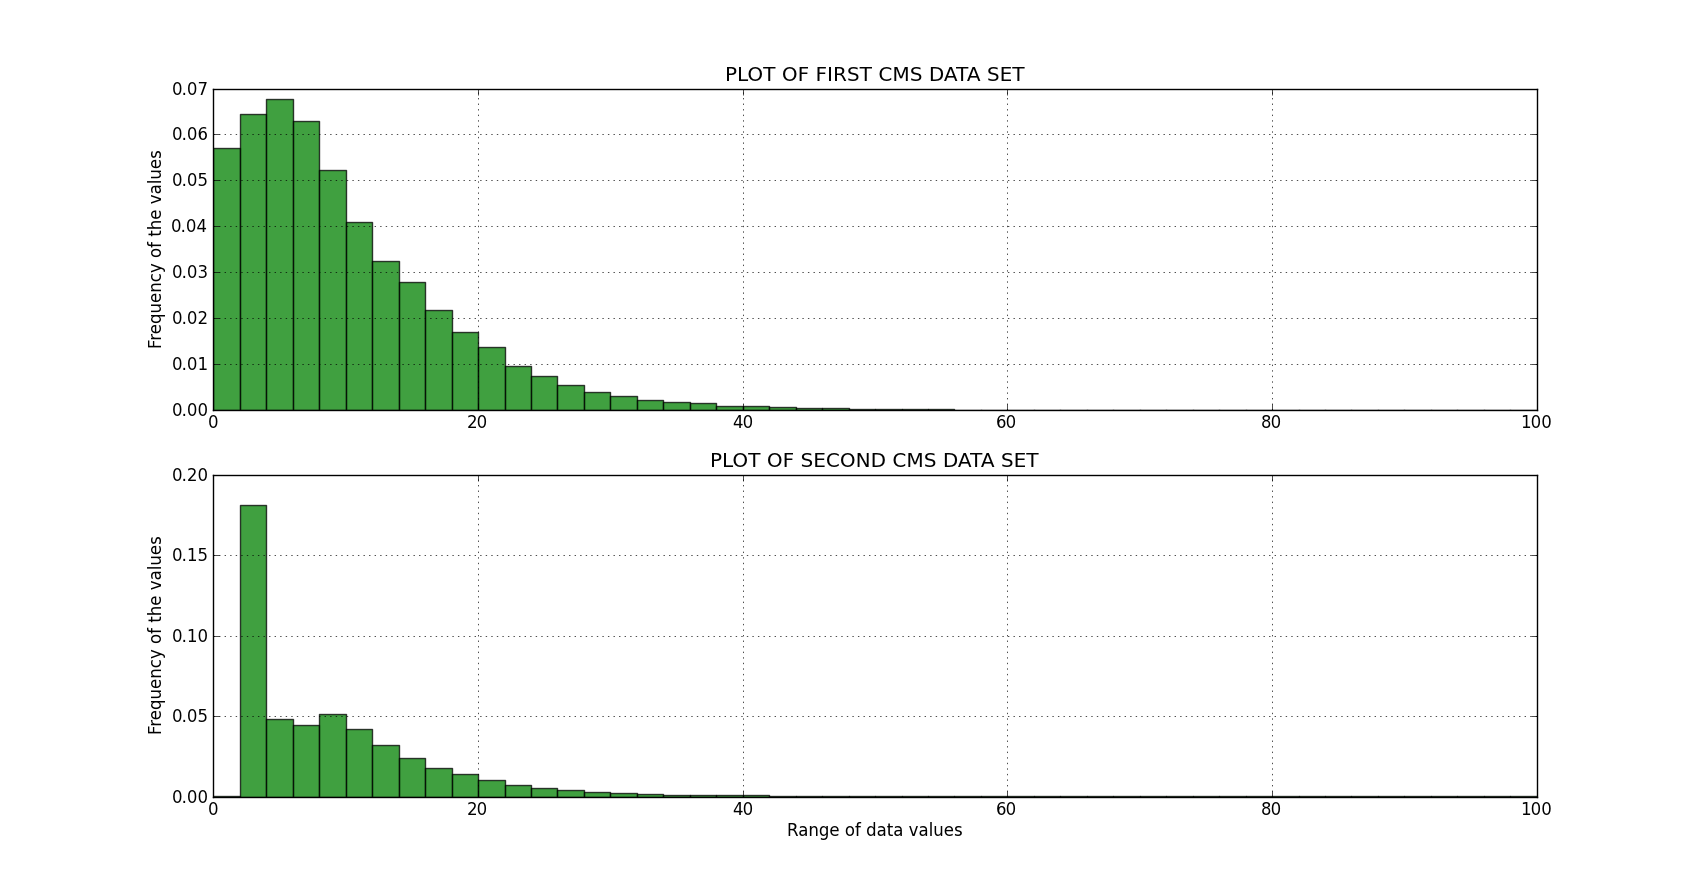
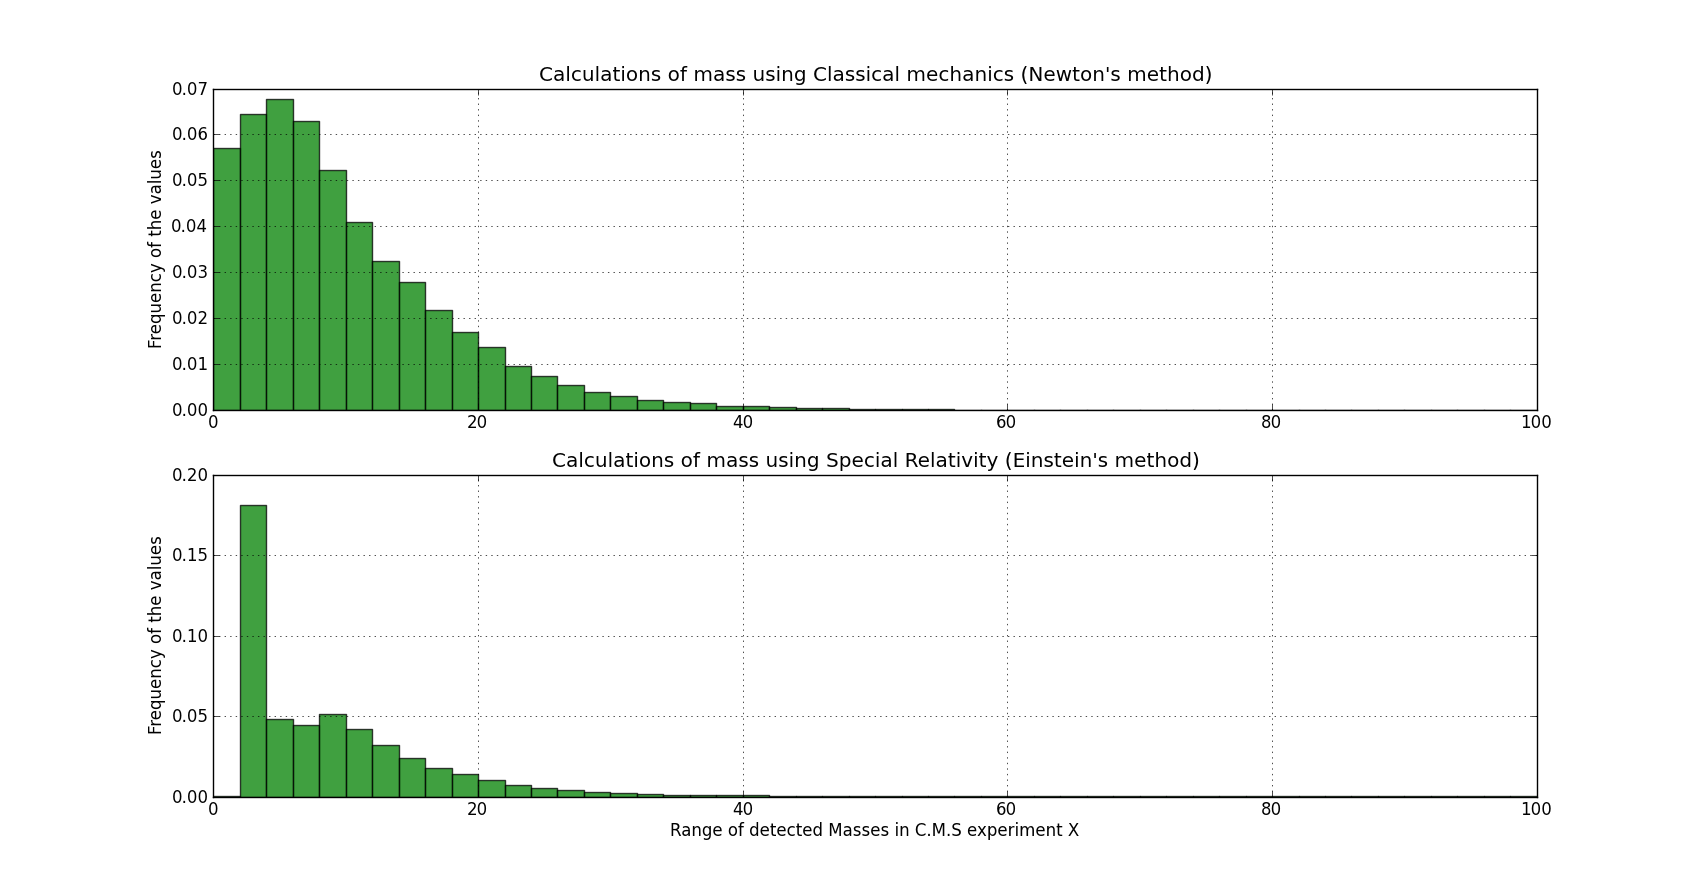
You can view data with bins, though solution is not very accurate.

Changed region(s): [[0.3415, 0.4881, 0.6831, 0.5492], [0.3105, 0.061, 0.7141, 0.0915], [0.4036, 0.9153, 0.621, 0.9458]]

diff --git a/Assignment_02/plot_data.py b/Assignment_02/plot_data.py
@@ -1,8 +1,12 @@
 import matplotlib.pyplot as plt 
-import numpy as np
+import numpy as np 
+from matplotlib.ticker import FormatStrFormatter
 
 data_list0 = [] # A list data type to hold data from first input file 
 data_list1 = [] # A list data type to hold data from second input file 
+
+j_psi_percentile = 3.1 / 100 # The percentage of mass of the J/psi particles plotted 
+upsilon_percentile = 90 / 100 # The percentage of mass of the J/psi particles plotted 
 
 # Open the first file and read its content
 with open('../data/data_file_0.dat', 'r' ) as file0:
@@ -12,38 +16,65 @@ with open('../data/data_file_0.dat', 'r' ) as file0:
 data_list0.sort() # Order the items in the list 
 
 # Follow the same procedure for the second file
-with open('../data/data_file_1.dat', 'r' ) as file1:
-    for line in file1: # Read the data obtained line by line 
-        data_list1.append(float(line))  # And convert them to their floating point equivalents
+#with open('../data/data_file_1.dat', 'r' ) as file1:
+#    for line in file1: # Read the data obtained line by line 
+#        data_list1.append(float(line))  # And convert them to their floating point equivalents
 		
-data_list1.sort() # Order the items in the list 
+#data_list1.sort() # Order the items in the list 
 
 # Draw a hisotgram with their data values of the first file
-fig = plt.figure(1)
-ax = fig.add_subplot(211)
+fig, ax = plt.subplots(1,1,1)
+# ax = fig.add_subplot(1,1,1)
 
-bins = plt.hist(data_list0, 50, normed=1, facecolor='g', alpha=0.75, range=(0.0, 100.0)) 
+counts, bins, patches = plt.hist(data_list0, 50, normed=1, facecolor='yellow', edgecolor='gray', alpha=0.75, range=(0.0, 100.0)) 
+
+# Set the ticks to be at the edges of the bins.
+ax.set_xticks(bins)
+
+# Set the xaxis's tick labels to be formatted with 1 decimal place...
+ax.xaxis.set_major_formatter(FormatStrFormatter('%0.1f'))
+
+# Change the colors of bars at the edges...
+j_psi_particles, upsilon_particles = np.percentile( data_list0, [ j_psi_percentile, upsilon_percentile ] )
+for patch, rightside, leftside in zip(patches, bins[1:], bins[:-1]):
+    if rightside < j_psi_particles:
+        patch.set_facecolor('green')
+    elif leftside > upsilon_particles:
+        patch.set_facecolor('red')
+		
+# Label the raw counts and the percentages below the x-axis...
+bin_centers = 0.5 * np.diff(bins) + bins[:-1]
+for count, x in zip(counts, bin_centers):
+    # Label the raw counts
+    ax.annotate(str(count), xy=(x, 0), xycoords=('data', 'axes fraction'),
+        xytext=(0, -18), textcoords='offset points', va='top', ha='center') 
+    
+    # Label the percentages
+    percent = '%0.0f%%' % (100 * float(count) / counts.sum())
+    ax.annotate(percent, xy=(x, 0), xycoords=('data', 'axes fraction'),
+        xytext=(0, -32), textcoords='offset points', va='top', ha='center')
+
 # plt.xlabel('Range of data values')
-plt.ylabel('Frequency of the values')
-plt.title('PLOT OF FIRST CMS DATA SET')
+# plt.ylabel('Frequency of the values')
+#plt.title('Calculations of mass (GeV / c^2) using Classical mechanics (Newton\'s method)')
 
 plt.grid(True)
 
-# get the corners of the rectangles for the histogram
-#left = np.array(bins[:-1])
-#right = np.array(bins[1:])
-#bottom = np.zeros(len(left))
-#top = bottom + n 
+# Give ourselves some more room at the bottom of the plot
+#plt.subplots_adjust(bottom=0.15) 
 
-# Draw a hisotgram with their data values of the second file
-ax = fig.add_subplot(212)
+#ax = fig.add_subplot(2,2,1)
 
-bins = plt.hist(data_list1, 50, normed=1, facecolor='g', alpha=0.75, range=(0.0, 100.0)) 
+#n, bins, patches = plt.hist(data_list1, 50, normed=1, facecolor='g', alpha=0.75, range=(0.0, 100.0)) 
 
-plt.xlabel('Range of data values')
-plt.ylabel('Frequency of the values')
-plt.title('PLOT OF SECOND CMS DATA SET')
+plt.xlabel('Range of detected Masses (GeV / c^2) in C.M.S experiment X')
+#plt.ylabel('Frequency of the values')
+#plt.title('Calculations of mass using Special Relativity (Einstein\'s method)')
 
 plt.grid(True)
 
 plt.show()
+
+if __name__ == "__main__": 
+    import sys 
+    plot_data (sys.argv)
